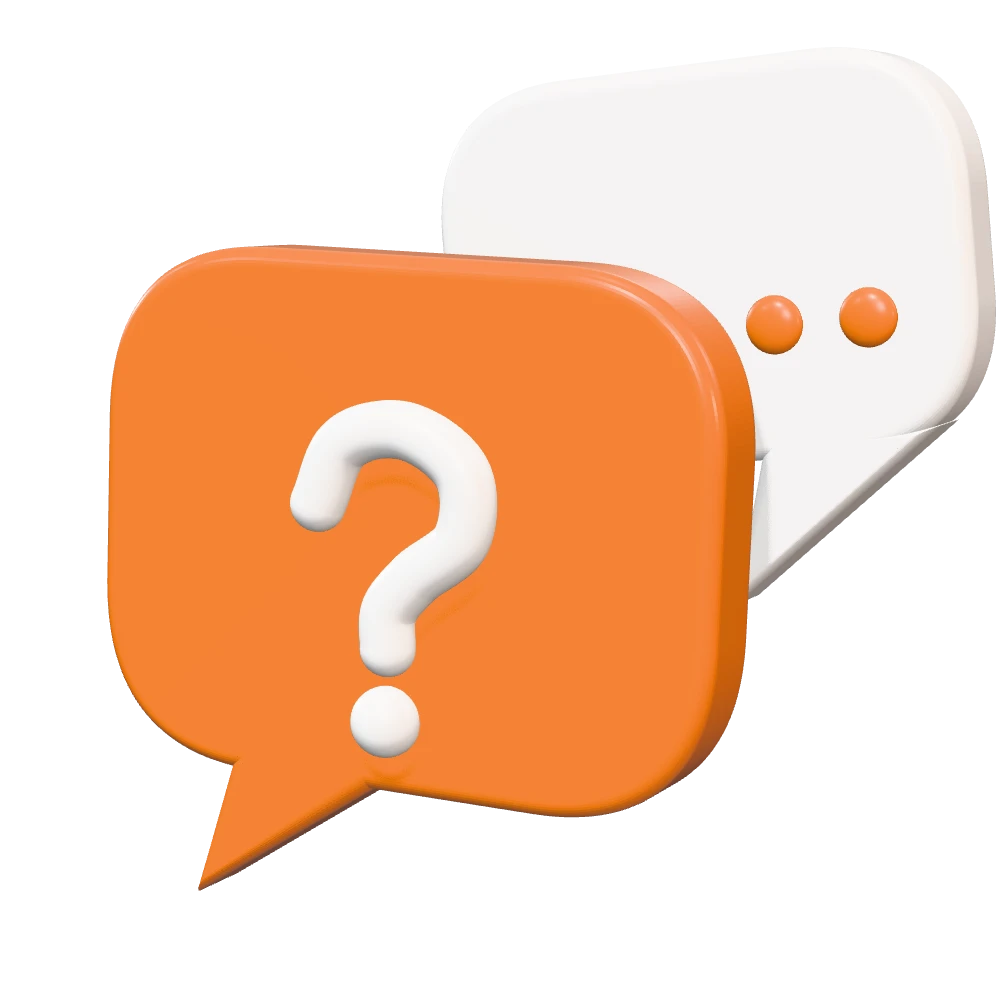
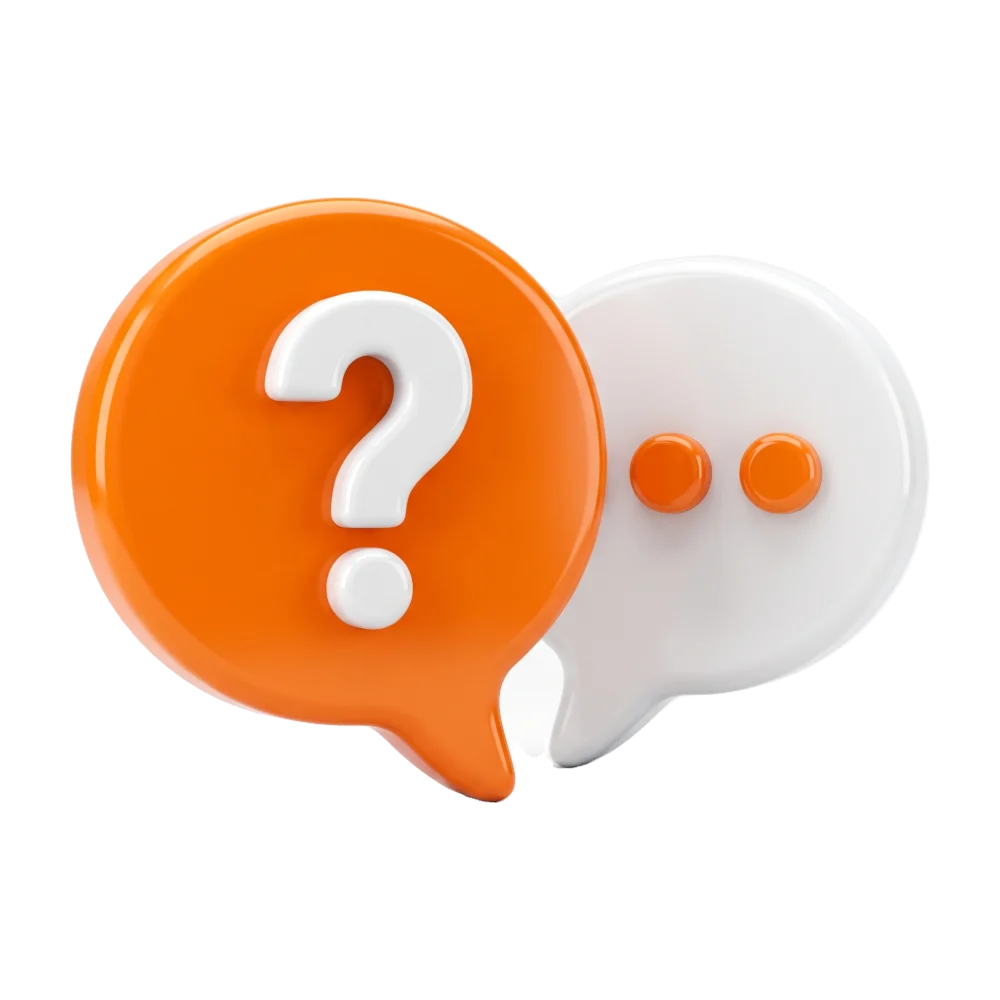
Update illustrations and remove obsolete scripts
- Replaced multiple .webp and .jpg images in the public/landing/scenarios and public/auth directories with updated versions.
- Deleted the scripts/illustrations/build.ts and scripts/illustrations/scenes.ts files as they are no longer needed.
- Updated the alt text for the receiving illustration in the Contact component for better accessibility.
- Modified the landing-content.ts file to reflect the new location of illustrated moments.

diff --git a/src/frontend/features/landing/lib/landing-content.ts b/src/frontend/features/landing/lib/landing-content.ts
@@ -170,7 +170,7 @@ export const FOOTER_COLUMNS: FooterColumnType[] = [
   { title: 'Built for', links: USE_CASES.slice(0, 4).map((u) => ({ label: u.title.replace(/^For /, ''), href: `/#${u.id}` })) },
 ];
 
-/** Illustrated moments (scripts/illustrations), each an everyday problem StockMotion handles: the hero's carousel and the features page. */
+/** Illustrated moments (public/landing/scenarios), each an everyday problem StockMotion handles: the hero's carousel and the features page. */
 export type ScenarioType = { image: string; area: string; title: string; text: string; alt: string };
 
 export const SCENARIOS: ScenarioType[] = [

diff --git a/src/frontend/features/landing/Contact.tsx b/src/frontend/features/landing/Contact.tsx
@@ -21,7 +21,7 @@ export const Contact = () => {
         <div data-reveal className="grid gap-4 lg:grid-rows-[minmax(0,1fr)_auto]">
           <img
             src="/landing/scenarios/receiving.jpg"
-            alt="Illustration: pallets counted in at the dock door from a delivery truck, with a delivery-received notice."
+            alt="Illustration: a delivery truck at the dock door while a pallet is brought in and checked with a scanner."
             width={1600}
             height={1000}
             decoding="async"

diff --git a/docs/STRUCTURE.md b/docs/STRUCTURE.md
@@ -107,7 +107,7 @@ There is no `ApiResponse<T>` envelope; the API returns resources directly. Error
 `features/landing` holds the public pages — `Landing.tsx` (`/`), `Features.tsx` (`/features`), `Pricing.tsx` (`/pricing`), `Faq.tsx` (`/faq`) and `Contact.tsx` (`/contact`) — as children of one layout route, `MarketingLayout.tsx` (navbar, footer, scroll restoration). They follow `docs/design/style-reference.md` — the palette is scoped to `.landing` in `styles/landing.css`, so the app keeps its own.
 - **Copy and plans** live in `lib/landing-content.ts` and `lib/pricing-content.ts`; components only lay them out. Nothing there is invented: features are real, prices are the owner's, there are no fake customer logos or counts.
 - **Hero:** each page opens on a bento of tiles (`components/HeroTiles.tsx`), animated with GSAP and following the app's motion setting.
-- **Illustrations:** `scripts/illustrations/` draws each scenario with the live world's isometric kit and renders it to `public/landing/scenarios/` — `npm run illustrations`.
+- **Illustrations:** `public/landing/scenarios/` holds one picture per scenario (1600×1000 JPG): photoreal isometric cutaways of the business, in the live world's angle. Replace a file with one of the same name and size to change it.
 - **Navbar:** shadcn NavigationMenu with a full-width mega menu; Features, Pricing and FAQ are pages, and `/#…` links (How it works, the use cases) scroll to a section of the front page from any page.
 
 ## Live world

diff --git a/README.md b/README.md
@@ -79,7 +79,6 @@ Sessions use a short-lived access token held in memory, plus a rotating, httpOnl
 | `npm run lint` | ESLint: import cycles, frontend/backend boundary, hook rules |
 | `npm run typecheck` | `tsc -b --noEmit` |
 | `npm run vercel-build` | Vercel's build: frontend, migrations, and the backend bundled as one function in `.vercel/output` (needs `DATABASE_URL`) |
-| `npm run illustrations` | Re-render the landing page's scenario illustrations into `public/landing/scenarios/` (uses your installed Chrome) |
 | `npm run db:migrate` | Apply pending migrations (the server also does this on start) |
 | `npm run db:generate -- --name <change>` | Write a migration from changes to `src/backend/db/schema/` (drizzle-kit) |
 
